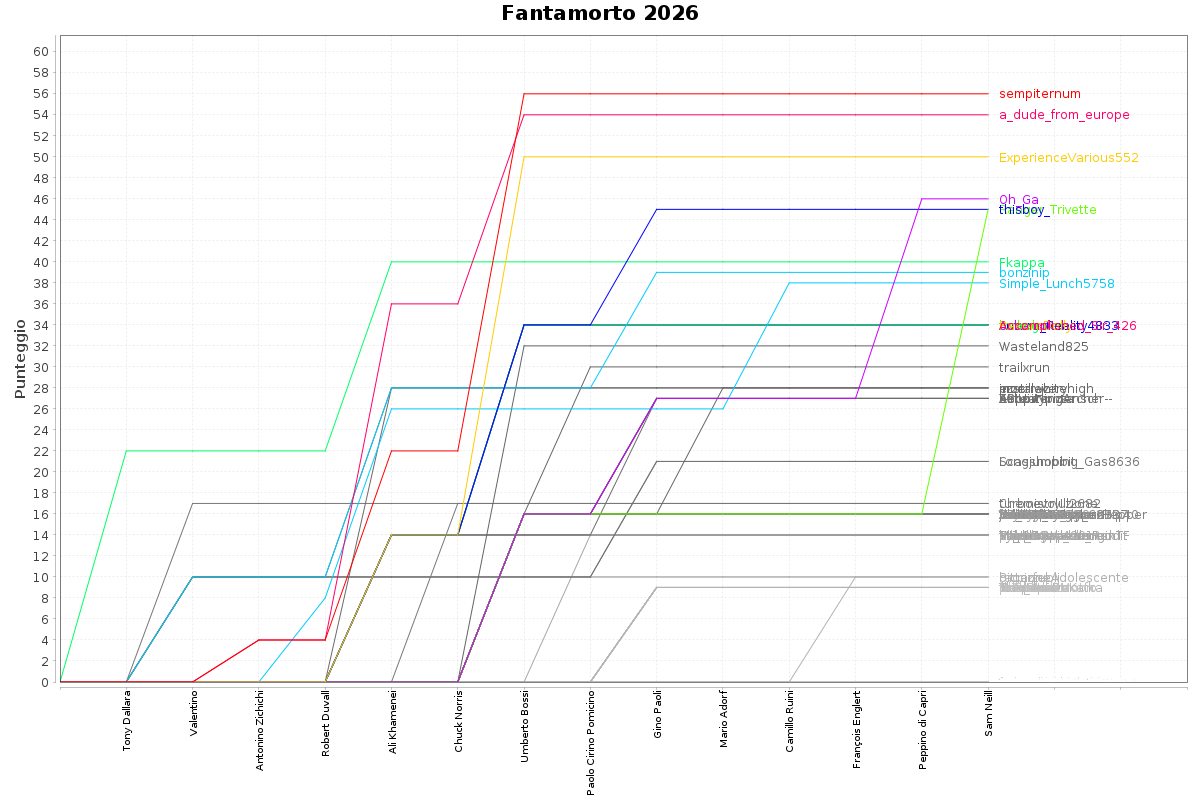
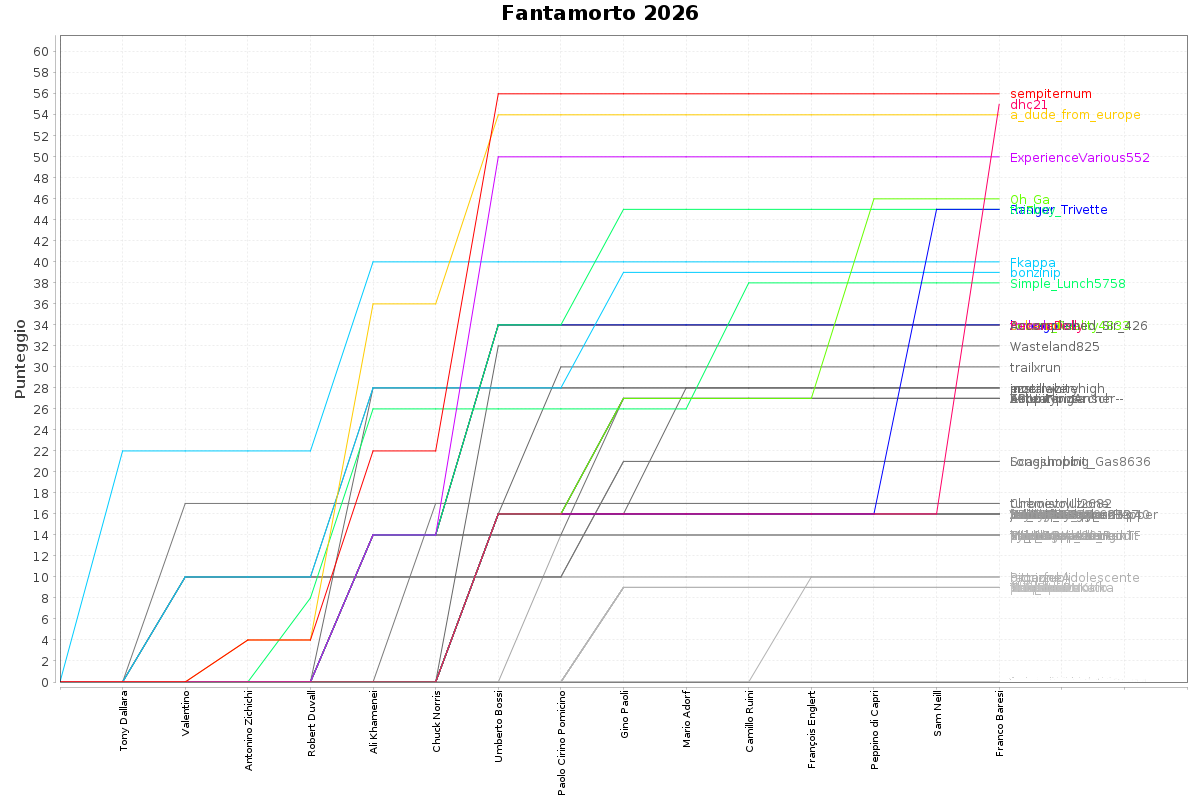
Automatic update

diff --git a/tabellone.html b/tabellone.html
@@ -99,6 +99,55 @@
 </tr>
 
 <tr>
+	<td>dhc21</td>
+	<td>simsalabim</td>
+	<td>
+	
+	<span class="tooltip"><span class="tooltiptext">
+		
+		&nbsp;+16 - MORTO (Umberto Bossi, età: 84)<br/>
+		
+		&nbsp;+3 - SNIPER (Franco Baresi)<br/>
+		
+		&nbsp;+34 - MORTO (Franco Baresi, età: 66)<br/>
+		
+		&nbsp;+2 - JACK OF ALL TRADES (politico, calciatore)<br/>
+		
+	</span>55</span>
+	</td>
+	
+	
+	
+		<td><a href="https://www.wikidata.org/wiki/Q6279">Joe Biden</a> <span class="gray">83</span></td>	
+	
+		<td><a href="https://www.wikidata.org/wiki/Q47832">Umberto Bossi</a> <span class="gray">84</span>†</td>	
+	
+		<td><a href="https://www.wikidata.org/wiki/Q189984">Franco Baresi</a> <span class="gray">66</span>†</td>	
+	
+		<td><a href="https://www.wikidata.org/wiki/Q47213">Warren Buffett</a> <span class="gray">95</span></td>	
+	
+		<td><a href="https://www.wikidata.org/wiki/Q44842">Giovanni Battista Re</a> <span class="gray">92</span></td>	
+	
+		<td><a href="https://www.wikidata.org/wiki/Q243430">Terence Hill</a> <span class="gray">87</span></td>	
+	
+		<td><a href="https://www.wikidata.org/wiki/Q234771">Iva Zanicchi</a> <span class="gray">86</span></td>	
+	
+		<td><a href="https://www.wikidata.org/wiki/Q559570">Nino Frassica</a> <span class="gray">75</span></td>	
+	
+		<td><a href="https://www.wikidata.org/wiki/Q166562">Ornella Muti</a> <span class="gray">71</span></td>	
+	
+		<td><a href="https://www.wikidata.org/wiki/Q295589">Alessandro Baricco</a> <span class="gray">68</span></td>	
+	
+		<td><a href="https://www.wikidata.org/wiki/Q3848255">Mario Adinolfi</a> <span class="gray">54</span></td>	
+	
+		<td><a href="https://www.wikidata.org/wiki/Q3741984">Fedez</a> <span class="gray">36</span></td>	
+	
+	
+		
+	<td>74.75</td>
+</tr>
+
+<tr>
 	<td>a_dude_from_europe</td>
 	<td>Del senno di poi</td>
 	<td>
@@ -1603,49 +1652,6 @@
 	
 		
 	<td>71.5</td>
-</tr>
-
-<tr>
-	<td>dhc21</td>
-	<td>simsalabim</td>
-	<td>
-	
-	<span class="tooltip"><span class="tooltiptext">
-		
-		&nbsp;+16 - MORTO (Umberto Bossi, età: 84)<br/>
-		
-	</span>16</span>
-	</td>
-	
-	
-	
-		<td><a href="https://www.wikidata.org/wiki/Q6279">Joe Biden</a> <span class="gray">83</span></td>	
-	
-		<td><a href="https://www.wikidata.org/wiki/Q47832">Umberto Bossi</a> <span class="gray">84</span>†</td>	
-	
-		<td><a href="https://www.wikidata.org/wiki/Q47213">Warren Buffett</a> <span class="gray">95</span></td>	
-	
-		<td><a href="https://www.wikidata.org/wiki/Q44842">Giovanni Battista Re</a> <span class="gray">92</span></td>	
-	
-		<td><a href="https://www.wikidata.org/wiki/Q243430">Terence Hill</a> <span class="gray">87</span></td>	
-	
-		<td><a href="https://www.wikidata.org/wiki/Q234771">Iva Zanicchi</a> <span class="gray">86</span></td>	
-	
-		<td><a href="https://www.wikidata.org/wiki/Q559570">Nino Frassica</a> <span class="gray">75</span></td>	
-	
-		<td><a href="https://www.wikidata.org/wiki/Q166562">Ornella Muti</a> <span class="gray">71</span></td>	
-	
-		<td><a href="https://www.wikidata.org/wiki/Q295589">Alessandro Baricco</a> <span class="gray">68</span></td>	
-	
-		<td><a href="https://www.wikidata.org/wiki/Q189984">Franco Baresi</a> <span class="gray">66</span></td>	
-	
-		<td><a href="https://www.wikidata.org/wiki/Q3848255">Mario Adinolfi</a> <span class="gray">54</span></td>	
-	
-		<td><a href="https://www.wikidata.org/wiki/Q3741984">Fedez</a> <span class="gray">36</span></td>	
-	
-	
-		
-	<td>74.75</td>
 </tr>
 
 <tr>
@@ -6451,6 +6457,8 @@
 
 <li>Sam Neill - 2026-07-13 (78)</li>
 
+<li>Franco Baresi - 2026-07-31 (66)</li>
+
 </ul>
 
 <p>Unicit&agrave; squadre:<br/><small>(punteggio indicante quanto una squadra usa atleti poco o per nulla presenti in altre squadre)</small></p>
@@ -6500,7 +6508,7 @@
 
 
 <br/>
-<small>Bot uptime: 19d 16h 22m 49s</small><br/>
-<small>Aggiornato: 2026-07-31 01:25:53</small>
+<small>Bot uptime: 19d 23h 59m 47s</small><br/>
+<small>Aggiornato: 2026-07-31 09:02:52</small>
 </body>
 </html>

diff --git a/tabellone2026.html b/tabellone2026.html
@@ -99,6 +99,55 @@
 </tr>
 
 <tr>
+	<td>dhc21</td>
+	<td>simsalabim</td>
+	<td>
+	
+	<span class="tooltip"><span class="tooltiptext">
+		
+		&nbsp;+16 - MORTO (Umberto Bossi, età: 84)<br/>
+		
+		&nbsp;+3 - SNIPER (Franco Baresi)<br/>
+		
+		&nbsp;+34 - MORTO (Franco Baresi, età: 66)<br/>
+		
+		&nbsp;+2 - JACK OF ALL TRADES (politico, calciatore)<br/>
+		
+	</span>55</span>
+	</td>
+	
+	
+	
+		<td><a href="https://www.wikidata.org/wiki/Q6279">Joe Biden</a> <span class="gray">83</span></td>	
+	
+		<td><a href="https://www.wikidata.org/wiki/Q47832">Umberto Bossi</a> <span class="gray">84</span>†</td>	
+	
+		<td><a href="https://www.wikidata.org/wiki/Q189984">Franco Baresi</a> <span class="gray">66</span>†</td>	
+	
+		<td><a href="https://www.wikidata.org/wiki/Q47213">Warren Buffett</a> <span class="gray">95</span></td>	
+	
+		<td><a href="https://www.wikidata.org/wiki/Q44842">Giovanni Battista Re</a> <span class="gray">92</span></td>	
+	
+		<td><a href="https://www.wikidata.org/wiki/Q243430">Terence Hill</a> <span class="gray">87</span></td>	
+	
+		<td><a href="https://www.wikidata.org/wiki/Q234771">Iva Zanicchi</a> <span class="gray">86</span></td>	
+	
+		<td><a href="https://www.wikidata.org/wiki/Q559570">Nino Frassica</a> <span class="gray">75</span></td>	
+	
+		<td><a href="https://www.wikidata.org/wiki/Q166562">Ornella Muti</a> <span class="gray">71</span></td>	
+	
+		<td><a href="https://www.wikidata.org/wiki/Q295589">Alessandro Baricco</a> <span class="gray">68</span></td>	
+	
+		<td><a href="https://www.wikidata.org/wiki/Q3848255">Mario Adinolfi</a> <span class="gray">54</span></td>	
+	
+		<td><a href="https://www.wikidata.org/wiki/Q3741984">Fedez</a> <span class="gray">36</span></td>	
+	
+	
+		
+	<td>74.75</td>
+</tr>
+
+<tr>
 	<td>a_dude_from_europe</td>
 	<td>Del senno di poi</td>
 	<td>
@@ -1603,49 +1652,6 @@
 	
 		
 	<td>71.5</td>
-</tr>
-
-<tr>
-	<td>dhc21</td>
-	<td>simsalabim</td>
-	<td>
-	
-	<span class="tooltip"><span class="tooltiptext">
-		
-		&nbsp;+16 - MORTO (Umberto Bossi, età: 84)<br/>
-		
-	</span>16</span>
-	</td>
-	
-	
-	
-		<td><a href="https://www.wikidata.org/wiki/Q6279">Joe Biden</a> <span class="gray">83</span></td>	
-	
-		<td><a href="https://www.wikidata.org/wiki/Q47832">Umberto Bossi</a> <span class="gray">84</span>†</td>	
-	
-		<td><a href="https://www.wikidata.org/wiki/Q47213">Warren Buffett</a> <span class="gray">95</span></td>	
-	
-		<td><a href="https://www.wikidata.org/wiki/Q44842">Giovanni Battista Re</a> <span class="gray">92</span></td>	
-	
-		<td><a href="https://www.wikidata.org/wiki/Q243430">Terence Hill</a> <span class="gray">87</span></td>	
-	
-		<td><a href="https://www.wikidata.org/wiki/Q234771">Iva Zanicchi</a> <span class="gray">86</span></td>	
-	
-		<td><a href="https://www.wikidata.org/wiki/Q559570">Nino Frassica</a> <span class="gray">75</span></td>	
-	
-		<td><a href="https://www.wikidata.org/wiki/Q166562">Ornella Muti</a> <span class="gray">71</span></td>	
-	
-		<td><a href="https://www.wikidata.org/wiki/Q295589">Alessandro Baricco</a> <span class="gray">68</span></td>	
-	
-		<td><a href="https://www.wikidata.org/wiki/Q189984">Franco Baresi</a> <span class="gray">66</span></td>	
-	
-		<td><a href="https://www.wikidata.org/wiki/Q3848255">Mario Adinolfi</a> <span class="gray">54</span></td>	
-	
-		<td><a href="https://www.wikidata.org/wiki/Q3741984">Fedez</a> <span class="gray">36</span></td>	
-	
-	
-		
-	<td>74.75</td>
 </tr>
 
 <tr>
@@ -6451,6 +6457,8 @@
 
 <li>Sam Neill - 2026-07-13 (78)</li>
 
+<li>Franco Baresi - 2026-07-31 (66)</li>
+
 </ul>
 
 <p>Unicit&agrave; squadre:<br/><small>(punteggio indicante quanto una squadra usa atleti poco o per nulla presenti in altre squadre)</small></p>
@@ -6500,7 +6508,7 @@
 
 
 <br/>
-<small>Bot uptime: 19d 16h 22m 49s</small><br/>
-<small>Aggiornato: 2026-07-31 01:25:53</small>
+<small>Bot uptime: 19d 23h 59m 47s</small><br/>
+<small>Aggiornato: 2026-07-31 09:02:52</small>
 </body>
 </html>
